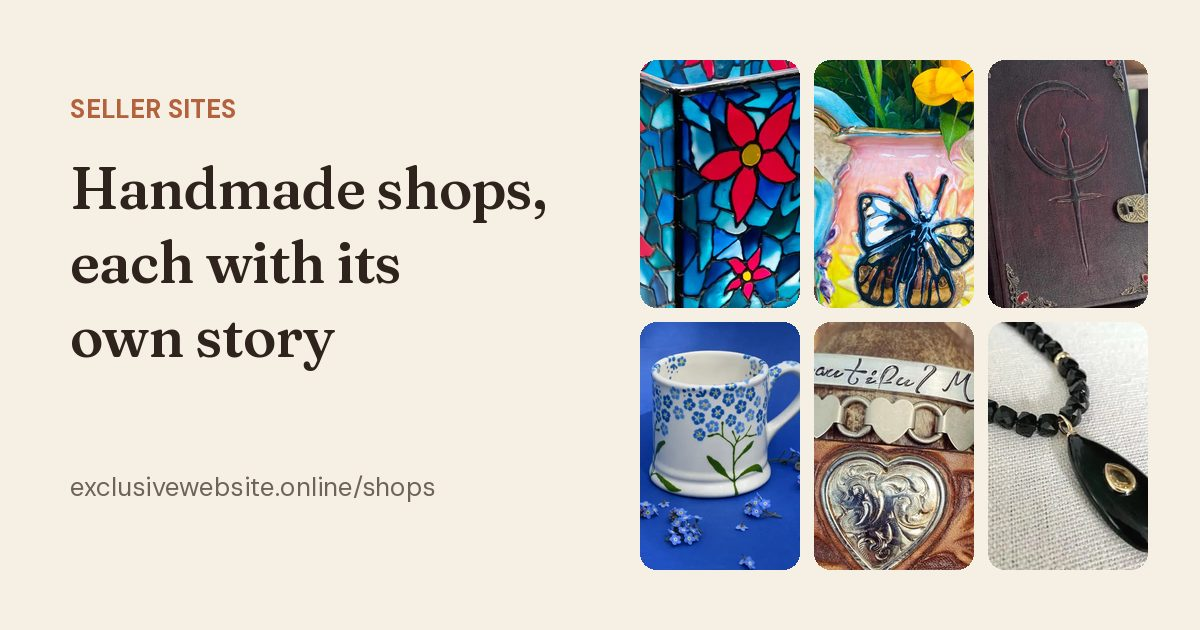
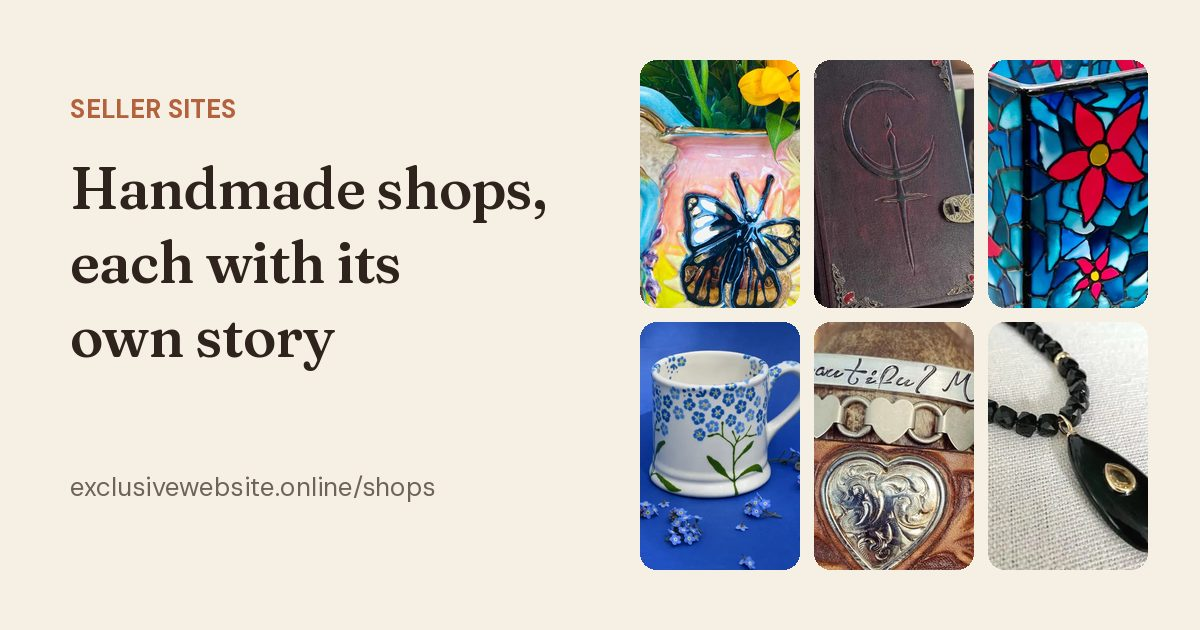
Feature /shops/ for Instagram: prefer live custom-domain sellers first
Reorder seller cards (eversartshop, velimiradesigns first), open shop
links in a new tab, and link Shops from the homepage nav, hero, and footer.

Changed region(s): [[0.5242, 0.0905, 0.9558, 0.5127]]

diff --git a/shops/index.html b/shops/index.html
@@ -22,7 +22,7 @@
 <link rel="preload" as="font" type="font/woff2" href="../fonts/dm-sans-var.woff2" crossorigin>
 <link rel="preload" as="font" type="font/woff2" href="../fonts/fraunces-var.woff2" crossorigin>
 <link rel="stylesheet" href="../style.css">
-<script type="application/ld+json">{"@context": "https://schema.org", "@type": "ItemList", "name": "Seller sites by Exclusive Website Online", "itemListElement": [{"@type": "ListItem", "position": 1, "name": "Votive Vault", "url": "https://votivevault.exclusivewebsite.online/"}, {"@type": "ListItem", "position": 2, "name": "Evers Art Shop", "url": "https://eversartshop.exclusivewebsite.online/"}, {"@type": "ListItem", "position": 3, "name": "Velimira Designs", "url": "https://velimiradesigns.exclusivewebsite.online/"}, {"@type": "ListItem", "position": 4, "name": "Hannah Berridge", "url": "https://hannahberridge.exclusivewebsite.online/"}, {"@type": "ListItem", "position": 5, "name": "Bohemian Soul Shine", "url": "https://bohemiansoulshine.exclusivewebsite.online/"}, {"@type": "ListItem", "position": 6, "name": "Silvana Sagan", "url": "https://silvanasagan.exclusivewebsite.online/"}]}</script>
+<script type="application/ld+json">{"@context": "https://schema.org", "@type": "ItemList", "name": "Seller sites by Exclusive Website Online", "itemListElement": [{"@type": "ListItem", "position": 1, "name": "Evers Art Shop", "url": "https://eversartshop.exclusivewebsite.online/"}, {"@type": "ListItem", "position": 2, "name": "Velimira Designs", "url": "https://velimiradesigns.exclusivewebsite.online/"}, {"@type": "ListItem", "position": 3, "name": "Votive Vault", "url": "https://votivevault.exclusivewebsite.online/"}, {"@type": "ListItem", "position": 4, "name": "Hannah Berridge", "url": "https://hannahberridge.exclusivewebsite.online/"}, {"@type": "ListItem", "position": 5, "name": "Bohemian Soul Shine", "url": "https://bohemiansoulshine.exclusivewebsite.online/"}, {"@type": "ListItem", "position": 6, "name": "Silvana Sagan", "url": "https://silvanasagan.exclusivewebsite.online/"}]}</script>
 </head>
 <body>
 <a class="skip-link" href="#main">Skip to content</a>
@@ -34,6 +34,7 @@
       <span class="brand-name">Exclusive Website <em>Online</em></span>
     </a>
     <nav class="site-nav" aria-label="Main">
+      <a href="./" aria-current="page">Shops</a>
       <a href="../#how">How it works</a>
       <a href="../#pricing">Pricing</a>
       <a href="../#example">Example</a>
@@ -57,33 +58,17 @@
       <ul class="shop-grid" role="list">
       <li class="shop-card">
         <div class="shop-card-media">
-          <img src="img/votivevault-800.webp" srcset="img/votivevault-480.webp 480w, img/votivevault-800.webp 800w" sizes="(max-width: 639px) calc(100vw - 2.5rem), (max-width: 979px) calc(50vw - 2rem), 360px" width="800" height="600" alt="Hand-painted mosaic glass candle holder with red flowers on blue, from Votive Vault" fetchpriority="high" decoding="async">
-        </div>
-        <div class="shop-card-body">
-          <p class="shop-card-place">Cape Cod, Massachusetts</p>
-          <h2 class="shop-card-title"><a href="https://votivevault.exclusivewebsite.online/">Votive Vault</a></h2>
-          <p class="shop-card-line">Colorful hand-painted glass candle and tea-light holders, painted one at a time by John.</p>
-          <div class="shop-card-artist">
-            <img src="img/votivevault-artist.webp" width="64" height="64" alt="John, the artist behind Votive Vault" loading="lazy" decoding="async">
-            <p><span>Meet the Artist</span>John</p>
-          </div>
-          <a class="btn btn-primary btn-block shop-card-cta" href="https://votivevault.exclusivewebsite.online/">Visit their site <span aria-hidden="true">&rarr;</span><span class="visually-hidden">: Votive Vault</span></a>
-          <p class="shop-card-meta"><span class="shop-card-url">votivevault.exclusivewebsite.online</span> <a href="https://www.instagram.com/votivevault/">@votivevault</a></p>
-        </div>
-      </li>
-      <li class="shop-card">
-        <div class="shop-card-media">
-          <img src="img/eversartshop-800.webp" srcset="img/eversartshop-480.webp 480w, img/eversartshop-800.webp 800w" sizes="(max-width: 639px) calc(100vw - 2.5rem), (max-width: 979px) calc(50vw - 2rem), 360px" width="800" height="600" alt="Handmade ceramic vase with a painted butterfly, filled with sunflowers, from Evers Art Shop" decoding="async">
+          <img src="img/eversartshop-800.webp" srcset="img/eversartshop-480.webp 480w, img/eversartshop-800.webp 800w" sizes="(max-width: 639px) calc(100vw - 2.5rem), (max-width: 979px) calc(50vw - 2rem), 360px" width="800" height="600" alt="Handmade ceramic vase with a painted butterfly, filled with sunflowers, from Evers Art Shop" fetchpriority="high" decoding="async">
         </div>
         <div class="shop-card-body">
           <p class="shop-card-place">Long Beach, California</p>
-          <h2 class="shop-card-title"><a href="https://eversartshop.exclusivewebsite.online/">Evers Art Shop</a></h2>
+          <h2 class="shop-card-title"><a href="https://eversartshop.exclusivewebsite.online/" target="_blank" rel="noopener noreferrer">Evers Art Shop</a></h2>
           <p class="shop-card-line">Wheel-thrown pottery, from mugs and bowls to vases and pet pottery, handmade by Jazmin.</p>
           <div class="shop-card-artist">
             <img src="img/eversartshop-artist.webp" width="64" height="64" alt="Jazmin Evers, the artist behind Evers Art Shop" loading="lazy" decoding="async">
             <p><span>Meet the Artist</span>Jazmin Evers</p>
           </div>
-          <a class="btn btn-primary btn-block shop-card-cta" href="https://eversartshop.exclusivewebsite.online/">Visit their site <span aria-hidden="true">&rarr;</span><span class="visually-hidden">: Evers Art Shop</span></a>
+          <a class="btn btn-primary btn-block shop-card-cta" href="https://eversartshop.exclusivewebsite.online/" target="_blank" rel="noopener noreferrer">Visit their site <span aria-hidden="true">&rarr;</span><span class="visually-hidden">: Evers Art Shop</span></a>
           <p class="shop-card-meta"><span class="shop-card-url">eversartshop.exclusivewebsite.online</span> <a href="https://www.instagram.com/eversartshop/">@eversartshop</a></p>
         </div>
       </li>
@@ -93,14 +78,30 @@
         </div>
         <div class="shop-card-body">
           <p class="shop-card-place">The Colony, Texas</p>
-          <h2 class="shop-card-title"><a href="https://velimiradesigns.exclusivewebsite.online/">Velimira Designs</a></h2>
+          <h2 class="shop-card-title"><a href="https://velimiradesigns.exclusivewebsite.online/" target="_blank" rel="noopener noreferrer">Velimira Designs</a></h2>
           <p class="shop-card-line">Handmade leather blank journals, books of shadows and grimoires, crafted by Velimira since 2010.</p>
           <div class="shop-card-artist">
             <img src="img/velimiradesigns-artist.webp" width="64" height="64" alt="Velimira, the artist behind Velimira Designs" loading="lazy" decoding="async">
             <p><span>Meet the Artist</span>Velimira</p>
           </div>
-          <a class="btn btn-primary btn-block shop-card-cta" href="https://velimiradesigns.exclusivewebsite.online/">Visit their site <span aria-hidden="true">&rarr;</span><span class="visually-hidden">: Velimira Designs</span></a>
+          <a class="btn btn-primary btn-block shop-card-cta" href="https://velimiradesigns.exclusivewebsite.online/" target="_blank" rel="noopener noreferrer">Visit their site <span aria-hidden="true">&rarr;</span><span class="visually-hidden">: Velimira Designs</span></a>
           <p class="shop-card-meta"><span class="shop-card-url">velimiradesigns.exclusivewebsite.online</span> <a href="https://www.instagram.com/velimira_designs/">@velimira_designs</a></p>
+        </div>
+      </li>
+      <li class="shop-card">
+        <div class="shop-card-media">
+          <img src="img/votivevault-800.webp" srcset="img/votivevault-480.webp 480w, img/votivevault-800.webp 800w" sizes="(max-width: 639px) calc(100vw - 2.5rem), (max-width: 979px) calc(50vw - 2rem), 360px" width="800" height="600" alt="Hand-painted mosaic glass candle holder with red flowers on blue, from Votive Vault" decoding="async">
+        </div>
+        <div class="shop-card-body">
+          <p class="shop-card-place">Cape Cod, Massachusetts</p>
+          <h2 class="shop-card-title"><a href="https://votivevault.exclusivewebsite.online/" target="_blank" rel="noopener noreferrer">Votive Vault</a></h2>
+          <p class="shop-card-line">Colorful hand-painted glass candle and tea-light holders, painted one at a time by John.</p>
+          <div class="shop-card-artist">
+            <img src="img/votivevault-artist.webp" width="64" height="64" alt="John, the artist behind Votive Vault" loading="lazy" decoding="async">
+            <p><span>Meet the Artist</span>John</p>
+          </div>
+          <a class="btn btn-primary btn-block shop-card-cta" href="https://votivevault.exclusivewebsite.online/" target="_blank" rel="noopener noreferrer">Visit their site <span aria-hidden="true">&rarr;</span><span class="visually-hidden">: Votive Vault</span></a>
+          <p class="shop-card-meta"><span class="shop-card-url">votivevault.exclusivewebsite.online</span> <a href="https://www.instagram.com/votivevault/">@votivevault</a></p>
         </div>
       </li>
       <li class="shop-card">
@@ -109,13 +110,13 @@
         </div>
         <div class="shop-card-body">
           <p class="shop-card-place">Saxmundham, Suffolk, UK</p>
-          <h2 class="shop-card-title"><a href="https://hannahberridge.exclusivewebsite.online/">Hannah Berridge</a></h2>
+          <h2 class="shop-card-title"><a href="https://hannahberridge.exclusivewebsite.online/" target="_blank" rel="noopener noreferrer">Hannah Berridge</a></h2>
           <p class="shop-card-line">Hand-painted ceramics with Suffolk wild flowers, beach huts and fishing boats, painted by Hannah.</p>
           <div class="shop-card-artist">
             <img src="img/hannahberridge-artist.webp" width="64" height="64" alt="Hannah Berridge, the artist behind Hannah Berridge" loading="lazy" decoding="async">
             <p><span>Meet the Artist</span>Hannah Berridge</p>
           </div>
-          <a class="btn btn-primary btn-block shop-card-cta" href="https://hannahberridge.exclusivewebsite.online/">Visit their site <span aria-hidden="true">&rarr;</span><span class="visually-hidden">: Hannah Berridge</span></a>
+          <a class="btn btn-primary btn-block shop-card-cta" href="https://hannahberridge.exclusivewebsite.online/" target="_blank" rel="noopener noreferrer">Visit their site <span aria-hidden="true">&rarr;</span><span class="visually-hidden">: Hannah Berridge</span></a>
           <p class="shop-card-meta"><span class="shop-card-url">hannahberridge.exclusivewebsite.online</span> <a href="https://www.instagram.com/hannahberridgestudio/">@hannahberridgestudio</a></p>
         </div>
       </li>
@@ -125,13 +126,13 @@
         </div>
         <div class="shop-card-body">
           <p class="shop-card-place">Crystal River, Florida</p>
-          <h2 class="shop-card-title"><a href="https://bohemiansoulshine.exclusivewebsite.online/">Bohemian Soul Shine</a></h2>
+          <h2 class="shop-card-title"><a href="https://bohemiansoulshine.exclusivewebsite.online/" target="_blank" rel="noopener noreferrer">Bohemian Soul Shine</a></h2>
           <p class="shop-card-line">Rustic, soulful handmade jewelry from vintage findings, made by Jen in her home studio.</p>
           <div class="shop-card-artist">
             <img src="img/bohemiansoulshine-artist.webp" width="64" height="64" alt="Jennifer Rippey, the artist behind Bohemian Soul Shine" loading="lazy" decoding="async">
             <p><span>Meet the Artist</span>Jennifer Rippey</p>
           </div>
-          <a class="btn btn-primary btn-block shop-card-cta" href="https://bohemiansoulshine.exclusivewebsite.online/">Visit their site <span aria-hidden="true">&rarr;</span><span class="visually-hidden">: Bohemian Soul Shine</span></a>
+          <a class="btn btn-primary btn-block shop-card-cta" href="https://bohemiansoulshine.exclusivewebsite.online/" target="_blank" rel="noopener noreferrer">Visit their site <span aria-hidden="true">&rarr;</span><span class="visually-hidden">: Bohemian Soul Shine</span></a>
           <p class="shop-card-meta"><span class="shop-card-url">bohemiansoulshine.exclusivewebsite.online</span> <a href="https://www.instagram.com/bohemian_soul_shine/">@bohemian_soul_shine</a></p>
         </div>
       </li>
@@ -141,13 +142,13 @@
         </div>
         <div class="shop-card-body">
           <p class="shop-card-place">Castle Rock, Colorado</p>
-          <h2 class="shop-card-title"><a href="https://silvanasagan.exclusivewebsite.online/">Silvana Sagan</a></h2>
+          <h2 class="shop-card-title"><a href="https://silvanasagan.exclusivewebsite.online/" target="_blank" rel="noopener noreferrer">Silvana Sagan</a></h2>
           <p class="shop-card-line">Handmade artisan gemstone and pearl jewelry in gold-filled and sterling silver, since 2010.</p>
           <div class="shop-card-artist">
             <img src="img/silvanasagan-artist.webp" width="64" height="64" alt="Silvana Sagan, the artist behind Silvana Sagan" loading="lazy" decoding="async">
             <p><span>Meet the Artist</span>Silvana Sagan</p>
           </div>
-          <a class="btn btn-primary btn-block shop-card-cta" href="https://silvanasagan.exclusivewebsite.online/">Visit their site <span aria-hidden="true">&rarr;</span><span class="visually-hidden">: Silvana Sagan</span></a>
+          <a class="btn btn-primary btn-block shop-card-cta" href="https://silvanasagan.exclusivewebsite.online/" target="_blank" rel="noopener noreferrer">Visit their site <span aria-hidden="true">&rarr;</span><span class="visually-hidden">: Silvana Sagan</span></a>
           <p class="shop-card-meta"><span class="shop-card-url">silvanasagan.exclusivewebsite.online</span> <a href="https://www.instagram.com/silvanasagan/">@silvanasagan</a></p>
         </div>
       </li>

diff --git a/index.html b/index.html
@@ -22,6 +22,7 @@
       <span class="brand-name">Exclusive Website <em>Online</em></span>
     </a>
     <nav class="site-nav" aria-label="Main">
+      <a href="shops/">Shops</a>
       <a href="#why">Why</a>
       <a href="#how">How it works</a>
       <a href="#pricing">Pricing</a>
@@ -41,7 +42,7 @@
         <p class="lead">Right now your bio link sends followers straight to Etsy. With your own site, they land on a page that&rsquo;s yours, hear your story, and can join your email list on the way to your shop.</p>
         <div class="hero-actions">
           <a class="btn btn-primary js-preview" href="#preview">Get a free preview <span aria-hidden="true">&rarr;</span></a>
-          <a class="btn btn-outline" href="juniper-row/">See an example site</a>
+          <a class="btn btn-outline" href="shops/">See shops we&rsquo;ve built</a>
         </div>
         <p class="hero-note"><span class="script">Try before you buy</span> &mdash; we build your preview first, free. Keep it for $100, one time.</p>
       </div>
@@ -220,7 +221,7 @@
       <p class="muted">Send us your Etsy shop and Instagram, and we&rsquo;ll build your preview site for free.</p>
       <div class="hero-actions hero-actions--center">
         <a class="btn btn-primary js-preview" href="#preview">Get a free preview <span aria-hidden="true">&rarr;</span></a>
-        <a class="btn btn-outline" href="juniper-row/">See an example site</a>
+        <a class="btn btn-outline" href="shops/">See shops we&rsquo;ve built</a>
       </div>
     </div>
   </section>
@@ -237,7 +238,7 @@
       <li><a href="mailto:hello@exclusivewebsite.online">hello@exclusivewebsite.online</a></li>
       <li><a href="https://www.instagram.com/ydmoskowitz/">Instagram</a></li>
       <li><a href="juniper-row/">Example site</a></li>
-      <li><a href="shops/">Seller sites</a></li>
+      <li><a href="shops/">Shops we&rsquo;ve built</a></li>
       <li><a href="privacy.html">Privacy</a></li>
     </ul>
   </div>
